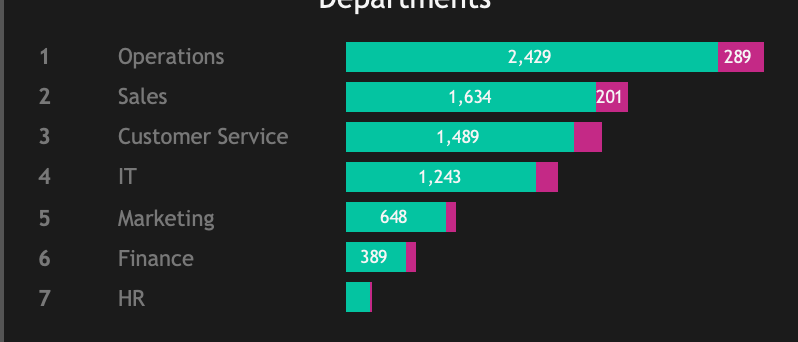
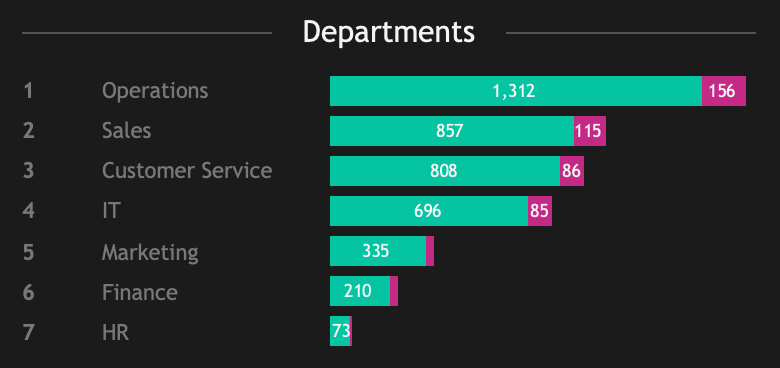
Update README

diff --git a/README.md b/README.md
@@ -6,36 +6,40 @@ Organizations continuously strive to enhance their workforce management strategi
 
 ## Executive Summary
 
-This project leverages dummy HR data (generated by ChatGPT) to analyze workforce trends, performance metrics, and salary distributions using **Tableau Desktop** app. Two dashboards have been developed accordingly:
+This project leverages dummy HR data (generated by ChatGPT) from 2015-2024 to analyze workforce trends, performance metrics, and salary distributions using **Tableau Desktop** app. Two dashboards have been developed accordingly:
 
 1. **Overview Dashboard**: A high-level summary of employee statistics, including headcount, hiring and termination trends, department distribution, and demographics.
-2. **Insights Dashboard**: A detailed exploration of salary trends, performance metrics, education levels, and other workforce analytics.
+2. **Insights Dashboard**: An insightful deep  of salary trends, performance metrics, education levels, and other workforce analytics.
 
 The aim is to derive actionable insights to enhance workforce management and decision-making.Some key findings include:
 
 - **Department Trends**: Operations and Sales exhibit the highest employee turnover, while IT and Finance maintain higher retention.
-- **Salary Insights**: IT roles show the highest median salaries, while Sales roles exhibit the largest gender pay gap.
+- **Salary Insights**: The role of Finance Manager shows the highest median salaries, while HR roles exhibit the largest gender pay gap.
 - **Performance Analysis**: Employees with Master’s degrees tend to have higher performance ratings.
 Demographics:
-- **Gender Ratio**: 54% Male, 46% Female.
+- **Gender Ratio**: A slight gender disparity is 54% Male, 46% Female.
 - **Education Levels**: Bachelor's degrees dominate at 60%, with consistent performance advantages.
 
 ## Insights Deep-Dive
 
 ### Overview
 
-- **Active Employees**: 7,984 active employees with clear hiring and termination trends, including spikes in terminations during specific years.
-![Active Employees](images/active_employees.png)
+<p align="center">
+<img src="images/active_employees.png" alt="Active Employees" width="80%">
+</p>
+- **Employees**: 7,984 active employees with clear hiring and termination trends, including spikes in terminations during specific years. Moreover, the trend in employee hiring and termination has followed a similar trend over the years. The overall attrition rate through all the years stands at 10.79%, which seems to be on the lower side. 
 
-- **Departmental Breakdown**: Operations has the largest headcount and the highest terminations, followed by Sales and Customer Service. Moreover, Operations and Sales exhibit the highest employee turnover, while IT and Finance maintain higher retention.
-![Departmental Breakdown](images/departmental_breakdown.png)
+<p align="center">
+<img src="images/departmental_breakdown.png" alt="Departmental breakdown" width="80%">
+</p>
+- **Departmental Breakdown**: Operations has the largest headcount and the highest terminations, followed by Sales and Customer Service. The trend in hiring and termination is also similar across different departments. Operations and Sales exhibit the highest employee hiring as well as turnover, whereas Finance and HR exhibit the lowest.
 
-- **Regional Breakdown**: The state of New York has the largest number of active employees, with 70% of the workforce based at the headquarters in NYC.
-![Regional Breakdown](images/regional_breakdown_1.png)
+<p align="center">
+<img src="images/regional_breakdown_1.png" alt="Regional Br"eakdown" width="80%">
+</p>
+- **Regional Breakdown**: The state of New York has the largest number of active employees, with 70% of the workforce based at the headquarters in NYC. The initial employment in 2015 happened in Michigan, followed by employments in Pennsylvania and New York in 2016. Thereafter, the hiring spread to some other states of the Midwest and Northeast, namely Illinois, Michigan, Ohio, Pennsylvania, New York, Virginia and North Carolina. 
 
 ### Demographics
-
-- **Gender Ratio**: 54% male, 46% female, with slight male dominance across departments.
 
 <div style="display: flex; align-items: flex-start;">
   <div style="flex: 1; padding-right: 10px;">
@@ -47,52 +51,35 @@ Demographics:
     <img src="images/employee_women.png" alt="Employee Women" style="width: 100%;">
   </div>
 </div>
+- **Gender Ratio**: The workforce comprises 54% male and 46% female employees, reflecting a slight male predominance across departments. Hiring and termination rates are consistent across both genders, with 89% of employees hired and 11% terminated during the observed period (from 2015-2024).
 
 
 <p align="center">
-  <img src="images/education_age_performance.png" alt="Regional Breakdown" width="800">
+  <img src="images/education_age_performance.png" alt="Regional Breakdown" width="80%">
 </p>
+- **Education and Age**: Majority of employees are in the 25-34 age range, indicating a younger workforce.Bachelor's degrees dominate at 60%, correlating with consistent performance advantages. Higher degrees (PhDs and Masters) demonstrate better performance levels, with PhDs rated "Excellent."
 
-- **Age Distribution**: Majority of employees are in the 25-34 age range, indicating a younger workforce.
-- Majority of employees are in the 25-34 age range, indicating a younger workforce.
-- **Education Levels**: Bachelor's degrees dominate at 60%, correlating with consistent performance advantages. Higher degrees (PhDs and Masters) demonstrate better performance levels, with PhDs rated "Excellent."
-
-### Income 
-
-![Role Income](images/regional_breakdown_1.png)
-- IT roles command the highest median salaries, whereas HR roles get the least median salaries.
+### Income
 
 <p align="center">
-  <img src="images/education_gender_men.png" alt="Overview Dashboard" width="45%" height="300">
-  <img src="images/education_gender_women.png" alt="Insights Dashboard" width="45%" height="300">
+  <img src="images/education_gender_men.png" alt="Overview Dashboard" width="40%">
+  <img src="images/education_gender_women.png" alt="Insights Dashboard" width="40%">
 </p>
 
 - Women with high school or Bachelor's degrees earn less than men, requiring equity adjustments, whereas women with Master's degrees or PhDs earn more than men at the same level, which also needs to be standardized.
 
-
+<p align="center">
+<img src="images/age_salary.png" alt="Age & Salary" width="80%">
+</p>
+- Employees working as Managers across different departments earn some of the highest salaries, whereas employees across HR and sales earn lower salaries.
 
 ## Recommendations
 
-- **Address Pay Gaps**: Initiate salary equity adjustments, particularly for women who have high-school or a bachelors degree as the highest education level as compared to women with the same highest level. On the other hand, women holding masters degree or a PHD earn higher than men at the same level, which also needs to be addressed. 
+- **Address Pay Gaps**: Initiate salary equity adjustments, particularly for women who have high-school or a bachelors degree as the highest education level as compared to women with the same highest level. On the other hand, women holding masters degree or a PHD earn higher than men at the same level, which also needs to be addressed.
 - **Retention Strategies**: Focus on mentoring and growth opportunities in high-turnover departments (e.g., Operations and Sales).
 - **Upskilling Programs**: Develop targeted training for employees in the "Needs Improvement" category to improve productivity.
 - **Hiring Optimizations**: Refine recruitment pipelines to target demographics (e.g., young graduates) with high potential for retention and performance.
 - **Gender Discrepancies**: Address gender discrepancies to ensure women are adequately represented in the workforce.
-
-## Clarifying Questions, Assumptions, and Caveats
-
-**Questions**
-
-
-
-The dataset contains comprehensive employee records, including details such as:
-
-- Employee IDs
-- Hiring dates
-- Termination dates
-- Department
-- Location
-- Gender
 
 ## Technologies Used
 
